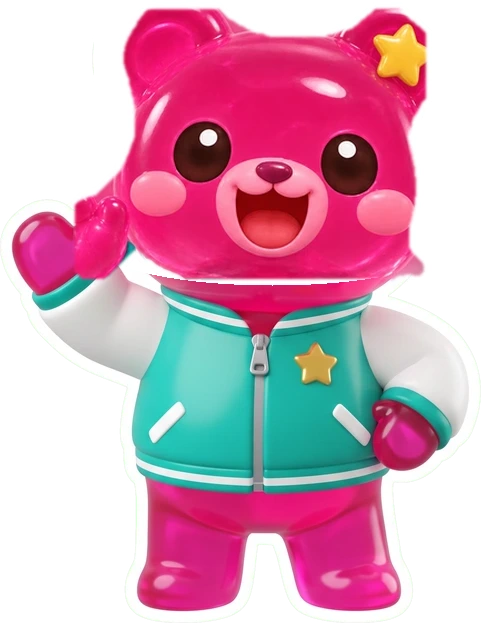
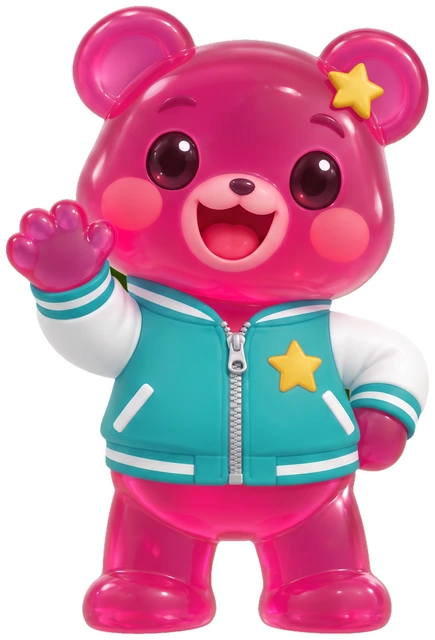
Bear regenerated in Overchat with the old face, glassier; stars under number and tag above in level circles; drag haptics; wheel tag fits

diff --git a/sw.js b/sw.js
@@ -1,5 +1,5 @@
 /* Candoku service worker: cache the app shell so it works offline. Bump VERSION on each release. */
-const VERSION = 'candoku-v72';
+const VERSION = 'candoku-v73';
 const FILES = ['./', 'index.html', 'style.css', 'engine.js', 'hints.js', 'seeds.js', 'sound.js', 'music.js', 'voice.js', 'app.js', 'manifest.webmanifest', 'icon-192.png', 'icon-180.png', 'icon-192.png', 'icon-512.png', 'icons/lollipop.png', 'icons/candy.png', 'icons/chocolate_bar.png', 'icons/doughnut.png', 'icons/cupcake.png', 'icons/cookie.png', 'icons/cherries.png', 'icons/soft_ice_cream.png', 'icons/shortcake.png', 'icons/dango.png', 'art/bg_0.jpg', 'art/bg_1.jpg', 'art/bg_2.jpg', 'art/bg_3.jpg', 'art/bg_4.jpg', 'art/bg_5.jpg', 'art/bg_6.jpg', 'art/bg_7.jpg', 'art/bg_8.jpg', 'art/ic_undo.webp', 'art/ic_hint.webp', 'art/ic_wand.webp', 'art/ic_maybe.webp', 'art/ic_restart.webp', 'art/ic_coin.webp', 'art/ic_chest.webp', 'art/ic_wheel.webp', 'art/ic_games.webp', 'art/nav_gifts.webp', 'art/nav_quests.webp', 'art/nav_home.webp', 'art/nav_shop.webp', 'art/nav_rank.webp', 'art/ic_heart.webp', 'art/ic_heart_off.webp', 'art/cd_lollipop.webp', 'art/cd_candy.webp', 'art/cd_chocolate_bar.webp', 'art/cd_doughnut.webp', 'art/cd_cupcake.webp', 'art/cd_cookie.webp', 'art/cd_cherries.webp', 'art/cd_soft_ice_cream.webp', 'art/cd_shortcake.webp', 'art/cd_dango.webp', 'art/tool_undo.webp', 'art/tool_hint.webp', 'art/tool_wand.webp', 'art/tool_maybe.webp', 'art/tool_maybe_green.webp', 'art/tool_restart.webp', 'art/ribbon.webp', 'art/ribbon_teal.webp', 'art/panel_blue.webp', 'art/ic_shield.webp', 'art/ic_double.webp', 'art/ic_sweeper.webp', 'art/ic_lens.webp', 'audio/voice/reward1.mp3', 'audio/voice/reward2.mp3', 'audio/voice/reward3.mp3', 'audio/voice/bigreward.mp3', 'audio/voice/wandget.mp3', 'art/gumi_pirate.webp', 'art/gumi_astronaut.webp', 'art/gumi_chef.webp', 'art/gumi_ninja.webp', 'art/btn_green.webp', 'art/btn_orange.webp', 'art/btn_blue.webp', 'art/logo.webp', 'art/ribbon_0.webp', 'art/ribbon_1.webp', 'art/ribbon_2.webp', 'art/ribbon_3.webp', 'art/ribbon_4.webp', 'art/ribbon_5.webp', 'art/ribbon_6.webp', 'art/ribbon_7.webp', 'art/ribbon_8.webp', 'art/ribbon_9.webp', 'art/gumi_win.webp', 'art/wheel_ring.webp', 'art/wheel_hub.webp', 'art/wheel_pointer.webp', 'art/tool_sweeper.webp', 'art/tool_lens.webp', 'art/gumi.webp', 'art/gumi_hero.webp', 'art/star_gold.webp', 'art/star_grey.webp', 'art/gumi_blue.webp', 'art/gumi_red.webp', 'art/panel.webp', 'audio/sfx/n0.mp3', 'audio/sfx/n1.mp3', 'audio/sfx/n2.mp3', 'audio/sfx/n3.mp3', 'audio/sfx/n4.mp3', 'audio/sfx/n5.mp3', 'audio/sfx/n6.mp3', 'audio/sfx/n7.mp3', 'audio/sfx/n8.mp3', 'audio/sfx/fanfare.mp3', 'audio/sfx/stars.mp3', 'audio/music/w4.mp3', 'audio/music/w5.mp3', 'audio/music/w6.mp3', 'audio/music/w7.mp3', 'audio/music/w8.mp3', 'audio/music/menu.mp3', 'audio/music/w0.mp3', 'audio/music/w1.mp3', 'audio/music/w2.mp3', 'audio/music/w3.mp3', 'audio/voice/close.mp3', 'audio/voice/delicious.mp3', 'audio/voice/divine.mp3', 'audio/voice/first.mp3', 'audio/voice/go.mp3', 'audio/voice/hard.mp3', 'audio/voice/intro1.mp3', 'audio/voice/intro2.mp3', 'audio/voice/intro3.mp3', 'audio/voice/letsplay.mp3', 'audio/voice/lose.mp3', 'audio/voice/nice.mp3', 'audio/voice/perfect.mp3', 'audio/voice/ready.mp3', 'audio/voice/sugartastic.mp3', 'audio/voice/tasty.mp3', 'audio/voice/veryhard.mp3', 'audio/voice/verytasty.mp3', 'audio/voice/welcome.mp3', 'audio/voice/yummy.mp3', 'audio/voice/z0.mp3', 'audio/voice/z1.mp3', 'audio/voice/z2.mp3', 'audio/voice/z3.mp3', 'audio/voice/z4.mp3', 'audio/voice/z5.mp3', 'audio/voice/z6.mp3', 'audio/voice/z7.mp3', 'audio/voice/z8.mp3'];
 self.addEventListener('install', (e) => {
   e.waitUntil(caches.open(VERSION).then((c) => c.addAll(FILES)).then(() => self.skipWaiting()));

diff --git a/app.js b/app.js
@@ -409,7 +409,7 @@
     else if (drag.mode === 'remove' && s === 1) ns = 0;
     if (ns === s) return false;
     if (!drag.snap) { snapshot(); drag.snap = true; }
-    cur.state[y][x] = ns; cur.wrongMarks.delete(y + ',' + x);
+    cur.state[y][x] = ns; cur.wrongMarks.delete(y + ',' + x); buzz(9);
     const now = performance.now();
     if (now - lastDragSound > 55) { lastDragSound = now; if (ns === 1) S.x(); else S.tap(); }
     return true;
@@ -1234,7 +1234,7 @@
     const set = (id, t) => { const e = $(id); if (e) e.textContent = t; };
     set('medDailyTag', daily.last === today() ? '✓' : 'Play');
     const free = wheel.date !== today() || wheel.extra > 0;
-    set('medWheelTag', free ? 'FREE' : 'Tomorrow'); $('medWheel').classList.toggle('ready', free);
+    set('medWheelTag', free ? 'FREE' : 'Soon'); $('medWheel').classList.toggle('ready', free);
     set('medChestTag', chest.n >= CHEST_AT ? 'OPEN' : chest.n + '/' + CHEST_AT); $('medChest').classList.toggle('ready', chest.n >= CHEST_AT);
     const left = (MAX_PLAYS - plays.memory) + (MAX_PLAYS - plays.toss);
     set('medGamesTag', left + '/' + MAX_PLAYS * 2); $('medGames').classList.toggle('ready', left > 0);

diff --git a/style.css b/style.css
@@ -949,3 +949,11 @@ body:not(.in-game) #mapfx{display:block}
 @keyframes bump{0%{transform:scale(1)}40%{transform:scale(1.22)}100%{transform:scale(1)}}
 .bank.bump{animation:bankbump .28s ease-out}
 @keyframes bankbump{0%{transform:translateX(-50%) scale(1)}40%{transform:translateX(-50%) scale(1.22)}100%{transform:translateX(-50%) scale(1)}}
+
+/* level circles: tag above the number, stars under it, all inside the circle */
+.node.hard,.node.veryhard,.node.extreme{padding-top:13px}
+.node.hasst{padding-bottom:12px}
+.node .badge,.node.hasst .badge{top:6px;font-size:8px;line-height:1;padding:2px 5px;letter-spacing:.3px;z-index:3}
+.node.extreme .badge{top:8px}
+.node .st,.node.hasst .st{top:auto;bottom:5px;left:50%;transform:translateX(-50%);gap:0;z-index:2}
+.node .st img.star{width:15px;height:15px}

diff --git a/index.html b/index.html
@@ -185,7 +185,7 @@
     <button class="btn" id="maybeBtn" type="button" aria-pressed="false" aria-label="Maybe" title="Maybe"><img class="tico" src="art/tool_maybe.webp" alt="" draggable="false"></button>
     <button class="btn" id="clearBtn" type="button" aria-label="Restart" title="Restart"><img class="tico" src="art/tool_restart.webp" alt="" draggable="false"></button>
   </div>
-  <p class="help">Tap: X (tap again to remove). Double tap: candy. Hold a square or use Maybe to mark a ? <span class="ver">v76</span></p>
+  <p class="help">Tap: X (tap again to remove). Double tap: candy. Hold a square or use Maybe to mark a ? <span class="ver">v77</span></p>
 </main>
 
 <!-- WIN -->
